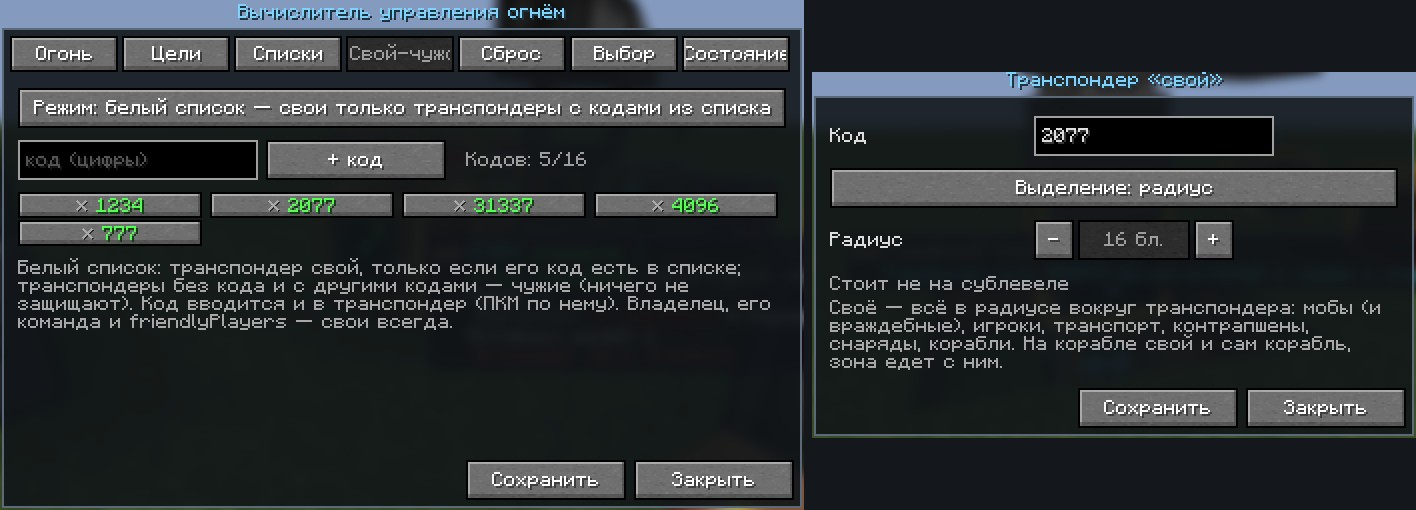
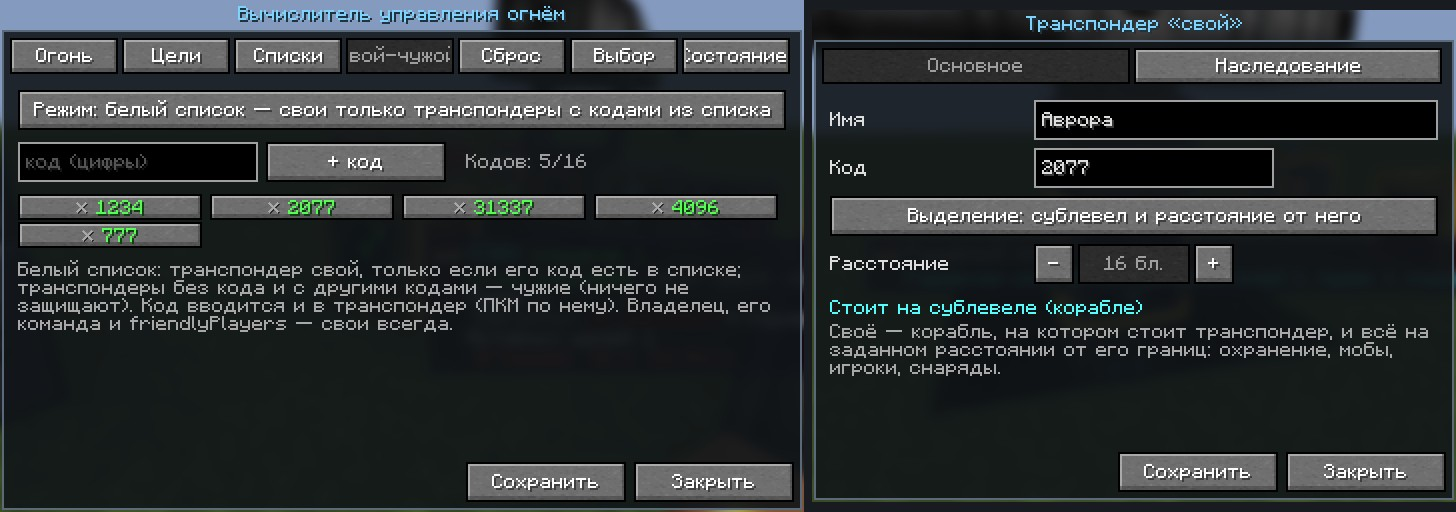
Монитор: без рамки выделения блока на экране, подписи без наложения
- При взгляде на лицевую сторону монитора рамка выделения блока не рисуется:
  она обводила один блок стены и выдавала стыки (у монитора свой курсор).
- Подписи имён в мире и в окне раскладываются без наложения: по важности
  (под курсором, назначенная, активная цель, остальное), со сдвигом на строку,
  лишние скрываются.
- Скриншоты docs: монитор в мире, окно монитора (Экран и Вид), транспондер
  с именем, вкладка «Наследование».

Claude-Session: https://claude.ai/code/session_012zqq5XfWdxmAYd59PkaZmo

diff --git a/radar_fcs/src/main/java/dev/radarfcs/client/RadarMonitorRenderer.java b/radar_fcs/src/main/java/dev/radarfcs/client/RadarMonitorRenderer.java
@@ -121,7 +121,8 @@ public class RadarMonitorRenderer implements BlockEntityRenderer<RadarMonitorBlo
         int count = 0;
         List<Blip> blips = be.blips();
         boolean always = be.labels() == RadarMonitorBlockEntity.LABELS_ALWAYS;
-        List<Label> labels = new ArrayList<>();
+        List<LabelLayout.Label> labels = new ArrayList<>();
+        float ls = 0.0055f * (float) Math.sqrt(Math.min(w, h));
         // метки наземных транспондеров
         int tIcon = be.icon(MonitorIcons.TRANSPONDER);
         for (RadarMonitorBlockEntity.Mark mk : be.marks()) {
@@ -137,7 +138,7 @@ public class RadarMonitorRenderer implements BlockEntityRenderer<RadarMonitorBlo
                     hoveredMark = mk;
                 }
             }
-            if (always && !mk.name().isEmpty()) labels.add(new Label(p[0] + ms * 1.4f, p[1], mk.name(), col));
+            if (always && !mk.name().isEmpty()) labels.add(label(p[0] + ms * 1.4f, p[1], mk.name(), col, LabelLayout.RANK_MINOR, ls));
         }
         // неактивные и свои - снизу, активные - поверх
         for (int pass = 0; pass < 2; pass++) {
@@ -164,30 +165,35 @@ public class RadarMonitorRenderer implements BlockEntityRenderer<RadarMonitorBlo
                         hoveredMark = null;
                     }
                 }
-                if (always && !b.tag().isEmpty()) labels.add(new Label(p[0] + bs * 1.4f, p[1], b.tag(), col));
+                if (always && !b.tag().isEmpty()) {
+                    int rank = minor ? LabelLayout.RANK_MINOR
+                            : (b.flags() & RadarMonitorBlockEntity.FLAG_DESIGNATED) != 0 ? LabelLayout.RANK_DESIGNATED : LabelLayout.RANK_ACTIVE;
+                    labels.add(label(p[0] + bs * 1.4f, p[1], b.tag(), col, rank, ls));
+                }
             }
         }
         if (hovered != null) {
             float[] p = toScreen(hovered.dx(), hovered.dz(), f, right, range, r, cx, cy);
             float o = s * 1.8f, th = s * 0.3f;
             frame(vc, m, p[0] - o, p[1] - o, p[0] + o, p[1] + o, th, 0.0026f, HOVER);
-            if (!always && !hovered.tag().isEmpty()) labels.add(new Label(p[0] + o * 1.2f, p[1], hovered.tag(), HOVER));
+            if (!always && !hovered.tag().isEmpty()) labels.add(label(p[0] + o * 1.2f, p[1], hovered.tag(), HOVER, LabelLayout.RANK_HOVER, ls));
         } else if (hoveredMark != null) {
             float[] p = toScreen(hoveredMark.dx(), hoveredMark.dz(), f, right, range, r, cx, cy);
             float o = s * 1.8f, th = s * 0.3f;
             frame(vc, m, p[0] - o, p[1] - o, p[0] + o, p[1] + o, th, 0.0026f, HOVER);
-            if (!always && !hoveredMark.name().isEmpty()) labels.add(new Label(p[0] + o * 1.2f, p[1], hoveredMark.name(), HOVER));
+            if (!always && !hoveredMark.name().isEmpty()) labels.add(label(p[0] + o * 1.2f, p[1], hoveredMark.name(), HOVER, LabelLayout.RANK_HOVER, ls));
         } else if (look != null) {
             // курсор взгляда
             float c = s * 0.8f, th = s * 0.15f;
             rect(vc, m, look[0] - c, look[1] - th, look[0] + c, look[1] + th, 0.0026f, 0xA0FFFFFF);
             rect(vc, m, look[0] - th, look[1] - c, look[0] + th, look[1] + c, 0.0026f, 0xA0FFFFFF);
         }
-        // подложки подписей (текст - ниже, после всех квадов)
-        float ls = 0.0055f * (float) Math.sqrt(Math.min(w, h));
-        for (Label lb : labels) {
-            float lw = font.width(lb.text()) * ls, lh = font.lineHeight * ls;
-            rect(vc, m, lb.x() - ls, lb.y() - lh / 2 - ls, lb.x() + lw + ls, lb.y() + lh / 2, 0.0027f, 0xB0000000);
+        // подложки подписей без наложения (текст - ниже, после всех квадов)
+        List<LabelLayout.Placed> placed = LabelLayout.place(labels);
+        float lh = font.lineHeight * ls;
+        for (LabelLayout.Placed pl : placed) {
+            LabelLayout.Label lb = pl.label();
+            rect(vc, m, lb.x(), pl.y() - lh / 2 - ls, lb.x() + lb.w(), pl.y() + lh / 2, 0.0027f, 0xB0000000);
         }
 
         // сведения о цели под взглядом (или назначенной): подложка - квадом здесь, текст - ниже. Свой фон текста шрифта
@@ -210,9 +216,10 @@ public class RadarMonitorRenderer implements BlockEntityRenderer<RadarMonitorBlo
         }
 
         // подписи - последними: текст берёт из буферов свой тип рендера, и буфер квадов после него недействителен
-        for (Label lb : labels) {
+        for (LabelLayout.Placed pl : placed) {
+            LabelLayout.Label lb = pl.label();
             ps.pushPose();
-            ps.translate(lb.x(), lb.y() + font.lineHeight * ls / 2, 0.003f);
+            ps.translate(lb.x() + ls, pl.y() + lh / 2, 0.003f);
             ps.scale(ls, -ls, ls);
             font.drawInBatch(lb.text(), 0, 0, 0xFF000000 | lb.color(), false, ps.last().pose(), buffers, Font.DisplayMode.POLYGON_OFFSET, 0,
                     LightTexture.FULL_BRIGHT);
@@ -251,8 +258,10 @@ public class RadarMonitorRenderer implements BlockEntityRenderer<RadarMonitorBlo
         ps.popPose();
     }
 
-    /** Подпись у значка (локальные координаты экрана). */
-    private record Label(float x, float y, String text, int color) {}
+    /** Подпись у значка (локальные координаты экрана): x - левый край текста, y - середина строки. */
+    private LabelLayout.Label label(float x, float y, String text, int color, int rank, float ls) {
+        return new LabelLayout.Label(x - ls, y, font.width(text) * ls + 2 * ls, font.lineHeight * ls + ls, text, color, rank);
+    }
 
     private static final int SHAPE_ROWS = 8;
 

diff --git a/radar_fcs/src/main/java/dev/radarfcs/client/RadarMonitorScreen.java b/radar_fcs/src/main/java/dev/radarfcs/client/RadarMonitorScreen.java
@@ -8,6 +8,7 @@ import dev.radarfcs.block.RadarMonitorBlockEntity.Show;
 import dev.radarfcs.core.TargetCategory;
 import dev.radarfcs.core.Track;
 import dev.radarfcs.net.MonitorCommandPayload;
+import java.util.ArrayList;
 import java.util.Arrays;
 import java.util.List;
 import java.util.Locale;
@@ -206,6 +207,7 @@ public final class RadarMonitorScreen extends Screen {
         g.fill(cx - 3, cy, cx + 4, cy + 1, 0xFFFFFFFF);
         g.fill(cx, cy - 3, cx + 1, cy + 4, 0xFFFFFFFF);
         boolean always = m.labels() == RadarMonitorBlockEntity.LABELS_ALWAYS;
+        List<LabelLayout.Label> labels = new ArrayList<>();
         hovered = null;
         hoveredMark = null;
         double best = 7;
@@ -220,7 +222,7 @@ public final class RadarMonitorScreen extends Screen {
                 best = d;
                 hoveredMark = mk;
             }
-            if (always && !mk.name().isEmpty()) label(g, mk.name(), p[0] + 6, p[1] - 3, col);
+            if (always && !mk.name().isEmpty()) labels.add(label(mk.name(), p[0] + 6, p[1], col, LabelLayout.RANK_MINOR));
         }
         for (Blip b : m.blips()) {
             float[] p = toScope(m, b.dx(), b.dz());
@@ -238,23 +240,30 @@ public final class RadarMonitorScreen extends Screen {
                 hovered = b;
                 hoveredMark = null;
             }
-            if (always && !b.tag().isEmpty()) label(g, b.tag(), p[0] + sz + 3, p[1] - 3, col);
+            if (always && !b.tag().isEmpty()) {
+                boolean minor = (b.flags() & (RadarMonitorBlockEntity.FLAG_INACTIVE | RadarMonitorBlockEntity.FLAG_FRIENDLY)) != 0;
+                int rank = (b.flags() & RadarMonitorBlockEntity.FLAG_DESIGNATED) != 0 ? LabelLayout.RANK_DESIGNATED
+                        : minor ? LabelLayout.RANK_MINOR : LabelLayout.RANK_ACTIVE;
+                labels.add(label(b.tag(), p[0] + sz + 3, p[1], col, rank));
+            }
         }
         // наведённая отметка: рамка, подпись (в режиме «при наведении») и сведения справа
         List<Component> info = List.of();
         if (hovered != null) {
             float[] p = toScope(m, hovered.dx(), hovered.dz());
             if (p != null) g.renderOutline((int) p[0] - 6, (int) p[1] - 6, 13, 13, 0xFFFFFFFF);
-            if (!always && !hovered.tag().isEmpty() && p != null) label(g, hovered.tag(), p[0] + 8, p[1] - 3, 0xFFFFFFFF);
+            if (!always && !hovered.tag().isEmpty() && p != null) labels.add(label(hovered.tag(), p[0] + 8, p[1], 0xFFFFFFFF, LabelLayout.RANK_HOVER));
             info = describe(m, hovered);
         } else if (hoveredMark != null) {
             float[] p = toScope(m, hoveredMark.dx(), hoveredMark.dz());
             if (p != null) g.renderOutline((int) p[0] - 6, (int) p[1] - 6, 13, 13, 0xFFFFFFFF);
-            if (!always && !hoveredMark.name().isEmpty() && p != null) label(g, hoveredMark.name(), p[0] + 8, p[1] - 3, 0xFFFFFFFF);
+            if (!always && !hoveredMark.name().isEmpty() && p != null) labels.add(label(hoveredMark.name(), p[0] + 8, p[1], 0xFFFFFFFF, LabelLayout.RANK_HOVER));
             info = describeMark(m, hoveredMark);
         } else {
             for (Blip b : m.blips()) if ((b.flags() & RadarMonitorBlockEntity.FLAG_DESIGNATED) != 0) info = describe(m, b);
         }
+        // подписи - поверх всех значков и без наложения
+        for (LabelLayout.Placed pl : LabelLayout.place(labels)) drawLabel(g, pl);
         int x = left + 2 * R + 20, y = top + 100, w = W - 2 * R - 28;
         if (info.isEmpty()) {
             g.drawWordWrap(font, Component.translatable("radar_fcs.monitor_gui.scope_hint").withStyle(ChatFormatting.GRAY), x, y, w, 0xA0A0A0);
@@ -288,12 +297,21 @@ public final class RadarMonitorScreen extends Screen {
         }
     }
 
-    private void label(GuiGraphics g, String text, float x, float y, int color) {
+    private static final float LABEL_SCALE = 0.75f;
+
+    /** Подпись у значка: x - левый край текста, y - середина строки. */
+    private LabelLayout.Label label(String text, float x, float y, int color, int rank) {
+        return new LabelLayout.Label(x - LABEL_SCALE, y, (font.width(text) + 2) * LABEL_SCALE, (font.lineHeight + 1) * LABEL_SCALE,
+                text, color, rank);
+    }
+
+    private void drawLabel(GuiGraphics g, LabelLayout.Placed pl) {
+        LabelLayout.Label lb = pl.label();
         g.pose().pushPose();
-        g.pose().translate(x, y, 0);
-        g.pose().scale(0.75f, 0.75f, 1f);
-        g.fill(-1, -1, font.width(text) + 1, font.lineHeight, 0xA0000000);
-        g.drawString(font, text, 0, 0, color, false);
+        g.pose().translate(lb.x() + LABEL_SCALE, pl.y() - lb.h() / 2 + LABEL_SCALE, 0);
+        g.pose().scale(LABEL_SCALE, LABEL_SCALE, 1f);
+        g.fill(-1, -1, font.width(lb.text()) + 1, font.lineHeight, 0xA0000000);
+        g.drawString(font, lb.text(), 0, 0, lb.color(), false);
         g.pose().popPose();
     }
 

diff --git a/radar_fcs/src/main/java/dev/radarfcs/client/LabelLayout.java b/radar_fcs/src/main/java/dev/radarfcs/client/LabelLayout.java
@@ -1,0 +1,49 @@
+package dev.radarfcs.client;
+
+import java.util.ArrayList;
+import java.util.Comparator;
+import java.util.List;
+
+/**
+ * Подписи значков монитора без наложения: ставятся по важности; подпись, которая налезает на уже поставленные,
+ * сдвигается на строку вниз или вверх (до двух строк), а если места нет - не рисуется.
+ */
+final class LabelLayout {
+    /** Сдвиги по высоте в строках подписи, по порядку проб. */
+    private static final int[] SHIFTS = {0, 1, -1, 2, -2};
+
+    /** Важность: под курсором, назначенная, активная цель, остальное (свои, неактивные, транспондеры). */
+    static final int RANK_HOVER = 4, RANK_DESIGNATED = 3, RANK_ACTIVE = 2, RANK_MINOR = 1;
+
+    /** Подпись: прямоугольник с левым краем x, центром по высоте y, шириной w и высотой h; текст, цвет, важность. */
+    record Label(float x, float y, float w, float h, String text, int color, int rank) {}
+
+    /** Поставленная подпись: y - итоговый центр по высоте. */
+    record Placed(Label label, float y) {}
+
+    private LabelLayout() {}
+
+    static List<Placed> place(List<Label> labels) {
+        List<Label> order = new ArrayList<>(labels);
+        order.sort(Comparator.comparingInt(Label::rank).reversed());
+        List<Placed> out = new ArrayList<>();
+        for (Label l : order) {
+            for (int k : SHIFTS) {
+                float y = l.y() + k * l.h();
+                if (free(out, l, y)) {
+                    out.add(new Placed(l, y));
+                    break;
+                }
+            }
+        }
+        return out;
+    }
+
+    private static boolean free(List<Placed> placed, Label l, float y) {
+        for (Placed p : placed) {
+            Label o = p.label();
+            if (l.x() < o.x() + o.w() && o.x() < l.x() + l.w() && Math.abs(y - p.y()) < (l.h() + o.h()) / 2) return false;
+        }
+        return true;
+    }
+}

diff --git a/radar_fcs/src/main/java/dev/radarfcs/client/FcsClient.java b/radar_fcs/src/main/java/dev/radarfcs/client/FcsClient.java
@@ -2,13 +2,18 @@ package dev.radarfcs.client;
 
 import dev.radarfcs.FcsMod;
 import dev.radarfcs.block.IffTransponderBlock;
+import dev.radarfcs.block.RadarMonitorBlock;
 import dev.radarfcs.registry.FcsRegistry;
+import net.minecraft.client.Minecraft;
 import net.minecraft.world.item.DyeColor;
+import net.minecraft.world.level.block.state.BlockState;
+import net.minecraft.world.phys.BlockHitResult;
 import net.neoforged.api.distmarker.Dist;
 import net.neoforged.bus.api.SubscribeEvent;
 import net.neoforged.fml.common.EventBusSubscriber;
 import net.neoforged.neoforge.client.event.EntityRenderersEvent;
 import net.neoforged.neoforge.client.event.RegisterColorHandlersEvent;
+import net.neoforged.neoforge.client.event.RenderHighlightEvent;
 
 /** Клиент: цвет канала транспондера, экран монитора, валы контроллеров наводки. */
 @EventBusSubscriber(modid = FcsMod.MODID, value = Dist.CLIENT)
@@ -30,5 +35,20 @@ public final class FcsClient {
     public static void renderers(EntityRenderersEvent.RegisterRenderers event) {
         event.registerBlockEntityRenderer(FcsRegistry.RADAR_MONITOR_BE.get(), RadarMonitorRenderer::new);
         event.registerBlockEntityRenderer(FcsRegistry.AIM_CONTROLLER_BE.get(), AimControllerRenderer::new);
+    }
+
+    /**
+     * Взгляд на экран монитора: рамку выделения блока не рисовать - у монитора свой курсор, а рамка одного блока
+     * выдаёт стыки стены экрана. С боков и сзади рамка обычная.
+     */
+    @SubscribeEvent
+    public static void highlight(RenderHighlightEvent.Block event) {
+        Minecraft mc = Minecraft.getInstance();
+        if (mc.level == null) return;
+        BlockHitResult hit = event.getTarget();
+        BlockState st = mc.level.getBlockState(hit.getBlockPos());
+        if (st.getBlock() instanceof RadarMonitorBlock && hit.getDirection() == st.getValue(RadarMonitorBlock.FACING)) {
+            event.setCanceled(true);
+        }
     }
 }

diff --git a/radar_fcs/README.md b/radar_fcs/README.md
@@ -51,7 +51,8 @@
   цель, зелёные квадраты — радары, голубые кольца — наземные транспондеры (базы) с именами.
 - **Имена**: корабль или контрапшен с транспондером подписан именем транспондера (имя корабля), наземный
   транспондер — своим. Подписи — **всегда** или **только при наведении** курсора (настройка монитора); действует и
-  на экране в мире, и в окне монитора.
+  на экране в мире, и в окне монитора. Подписи не налезают друг на друга: близкие сдвигаются на строку, лишние
+  (менее важные) скрываются — под курсором и назначенная цель важнее.
 - **Взгляд на экран** — курсор; отметка под ним в белой рамке, вверху экрана — имя, состояние, координаты,
   дальность, высота и скорость цели (так же для назначенной цели).
 - **ПКМ по отметке** — ручное наведение: назначить цель вычислителям сети монитора, они бьют по ней в первую очередь,
@@ -63,7 +64,8 @@
   - **Вид** — фильтры показа по типам (игроки, враждебные, мирные, корабли, контрапшены, снаряды, прочие,
     транспондеры, а также свои и неактивные) и значок каждого типа: форма (квадрат, круг, треугольник, ромб,
     крест, кольцо), цвет («по состоянию» или постоянный) и размер; масштаб (авто, 32…1024 блоков), режим подписей.
-- Стена мониторов — **сплошной экран** без видимых стыков блоков.
+- Стена мониторов — **сплошной экран** без видимых стыков блоков; при взгляде на экран рамка выделения блока не
+  рисуется (курсор — свой).
 - Свои и чужие на экране — по правилу «свой-чужой» (коды транспондеров) первого вычислителя сети монитора.
 
 **Монитор Create: Radars** тоже можно поставить в сеть линком: цель, выбранная на нём игроком, — ручное
@@ -162,6 +164,8 @@
     никогда), по 16 записей: ID сущности (`minecraft:villager`), тег (`#minecraft:raiders`), все сущности мода
     (`create:*`) или имя игрока; чёрный список важнее белого;
   - корабль (контрапшен), на котором стоит транспондер, свой всегда.
+
+  ![Вкладка «Наследование» транспондера](docs/transponder_inherit.jpg)
 - Входящие снаряды и ракеты внутри зоны тоже считаются своими и не сбиваются — для противоракетной обороны держите
   радиус базы небольшим.
 - **Питание**: 64 FE/т; без энергии транспондер ничего не защищает. Транспондер в движущемся контрапшене Create питания

diff --git a/radar_fcs/CLAUDE.md b/radar_fcs/CLAUDE.md
@@ -69,8 +69,10 @@
    (`IffRegistry.shipName`) и контрапшена (`ContraptionCompat.name`), `Track.tagName`. Свой монитор: значки по типам
    (`block/MonitorIcons`: форма, цвет «по состоянию»/постоянный, размер; у ведущего блока, NBT `Icons`), фильтр
    «Транспондеры» (`Show.TRANSPONDERS`, отметки `Mark` наземных транспондеров с именами), подписи имён всегда или при
-   наведении (`LABELS_ALWAYS`/`LABELS_HOVER`, и в мире, и в окне), окно с вкладками Экран / Цели / Вид. Стыки блоков
-   стены не видны: рамка - один квад на всю стену, фон непрозрачный, текстура лицевой стороны бесшовная.
+   наведении (`LABELS_ALWAYS`/`LABELS_HOVER`, и в мире, и в окне; без наложения - `client/LabelLayout`), окно с
+   вкладками Экран / Цели / Вид. Стыки блоков стены не видны: рамка - один квад на всю стену, фон непрозрачный,
+   текстура лицевой стороны бесшовная, рамка выделения блока на лицевой стороне не рисуется
+   (`FcsClient.highlight`, `RenderHighlightEvent.Block`) - именно она выдавала стык при взгляде на монитор.
 
 ## 2. Окружение и сборка
 | Что | Значение |
